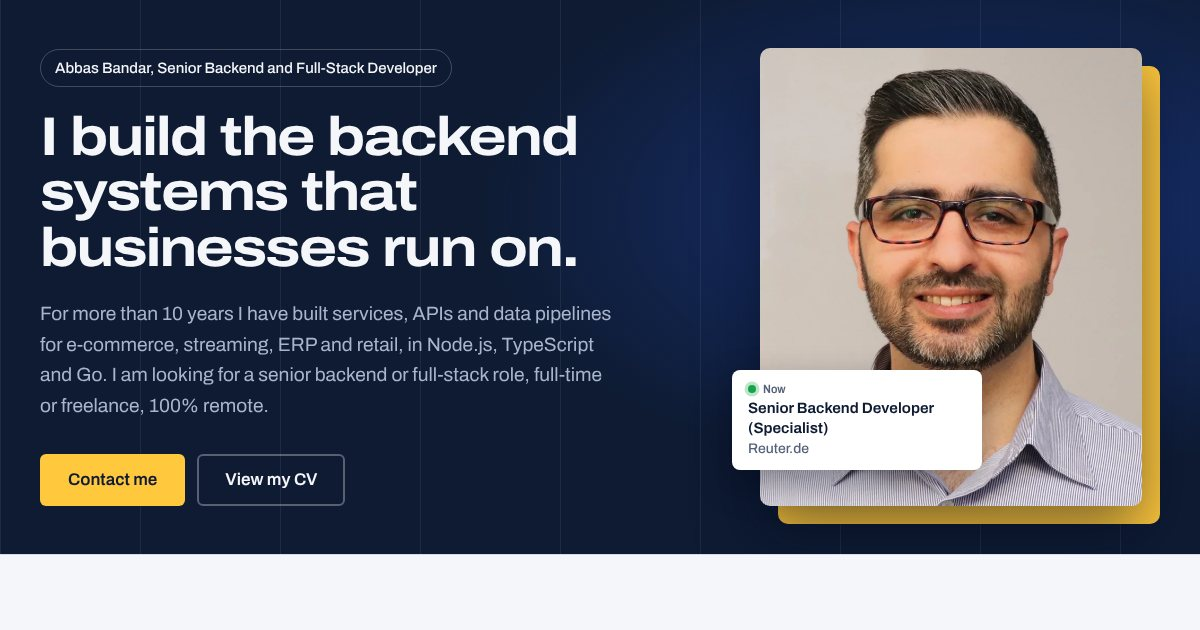
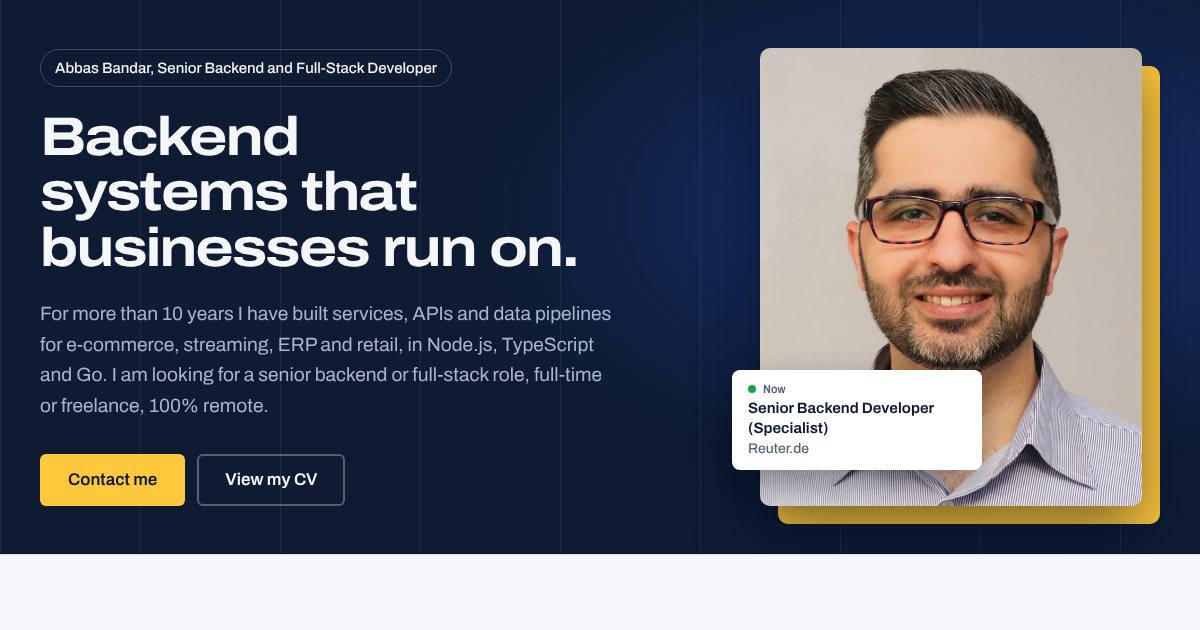
Lead the hero headline with the specialism
Claude-Session: https://claude.ai/code/session_012zLnr98GBUEWio7JcucpK9

Changed region(s): [[0.0308, 0.181, 0.4933, 0.2714], [0.6167, 0.6032, 0.6475, 0.6333]]

diff --git a/src/data/content.en.ts b/src/data/content.en.ts
@@ -16,7 +16,7 @@ export const en: SiteContent = {
   profile: {
     ...contact,
     jobTitle: "Senior Backend and Full-Stack Developer",
-    headline: "I build the backend systems that businesses run on.",
+    headline: "Backend systems that businesses run on.",
     intro:
       "For more than 10 years I have built services, APIs and data pipelines for e-commerce, streaming, ERP and retail, in Node.js, TypeScript and Go. I am looking for a senior backend or full-stack role, full-time or freelance, 100% remote.",
     location: "Mönchengladbach, Germany",
